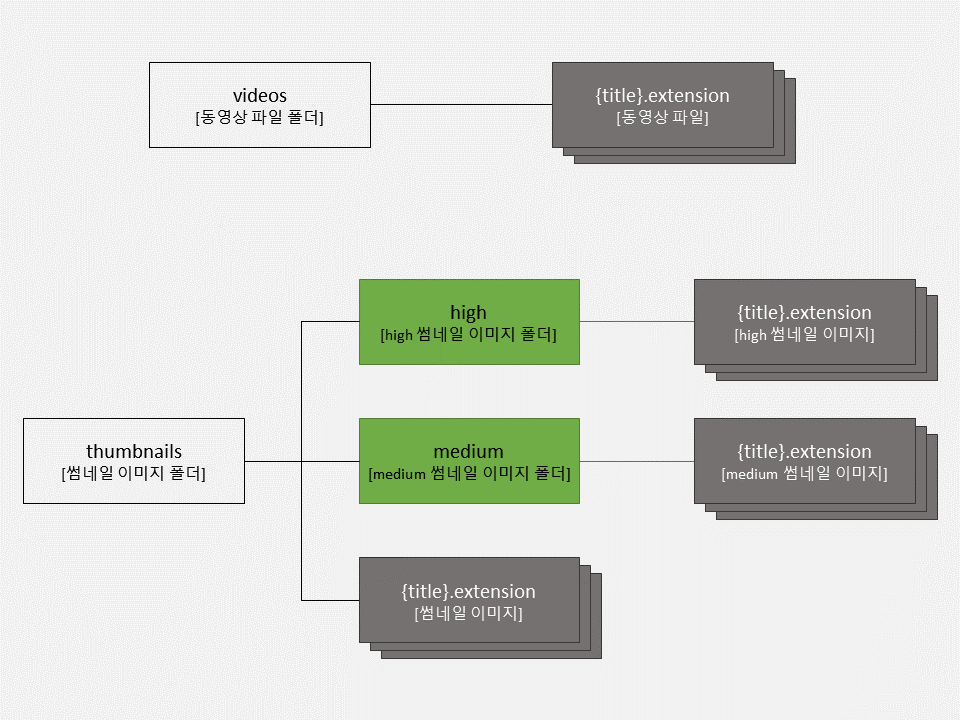
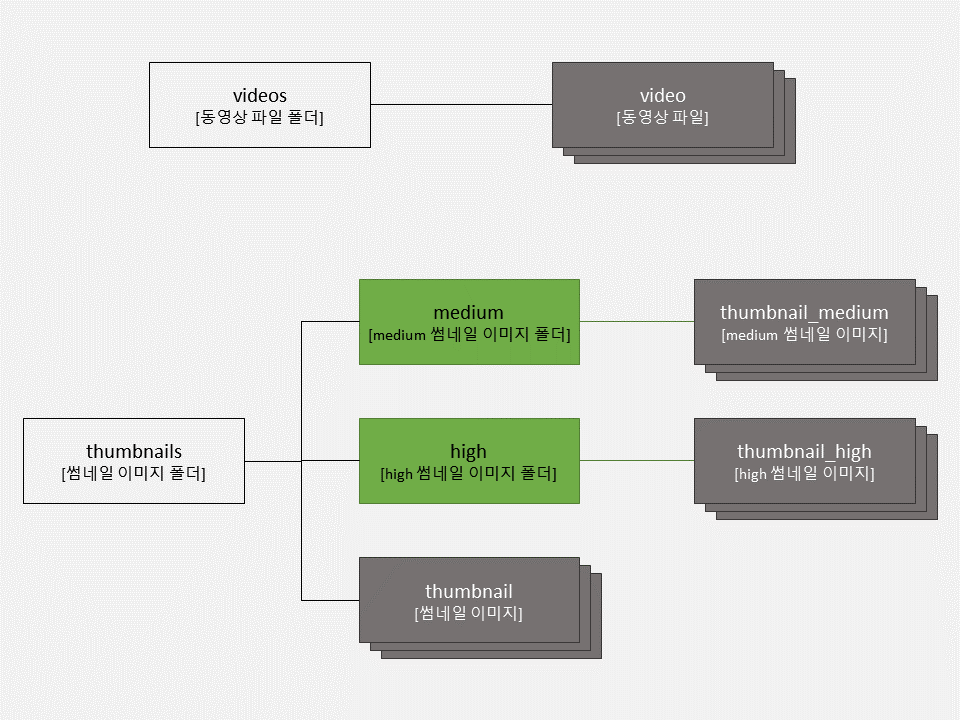
데이터 구조 수정

diff --git a/Data Structure/readme.md b/Data Structure/readme.md
@@ -10,7 +10,17 @@ YouTube Data API에 사용되는  데이터
     "title": string,
     "description": string,
     "thumbnails": {
-      (key): {
+      "default": {
+        "url": string,
+        "width": unsigned integer,
+        "height": unsigned integer
+      },
+      "medium": {
+        "url": string,
+        "width": unsigned integer,
+        "height": unsigned integer
+      },
+      "high": {
         "url": string,
         "width": unsigned integer,
         "height": unsigned integer
@@ -32,6 +42,8 @@ YouTube Data API에 사용되는  데이터
 - description
 - tags
 - categoryId
+- video file name
+- thubmnail file name (default, medium, high)
 
 비정형 데이터 | Blob Storage
 ---
